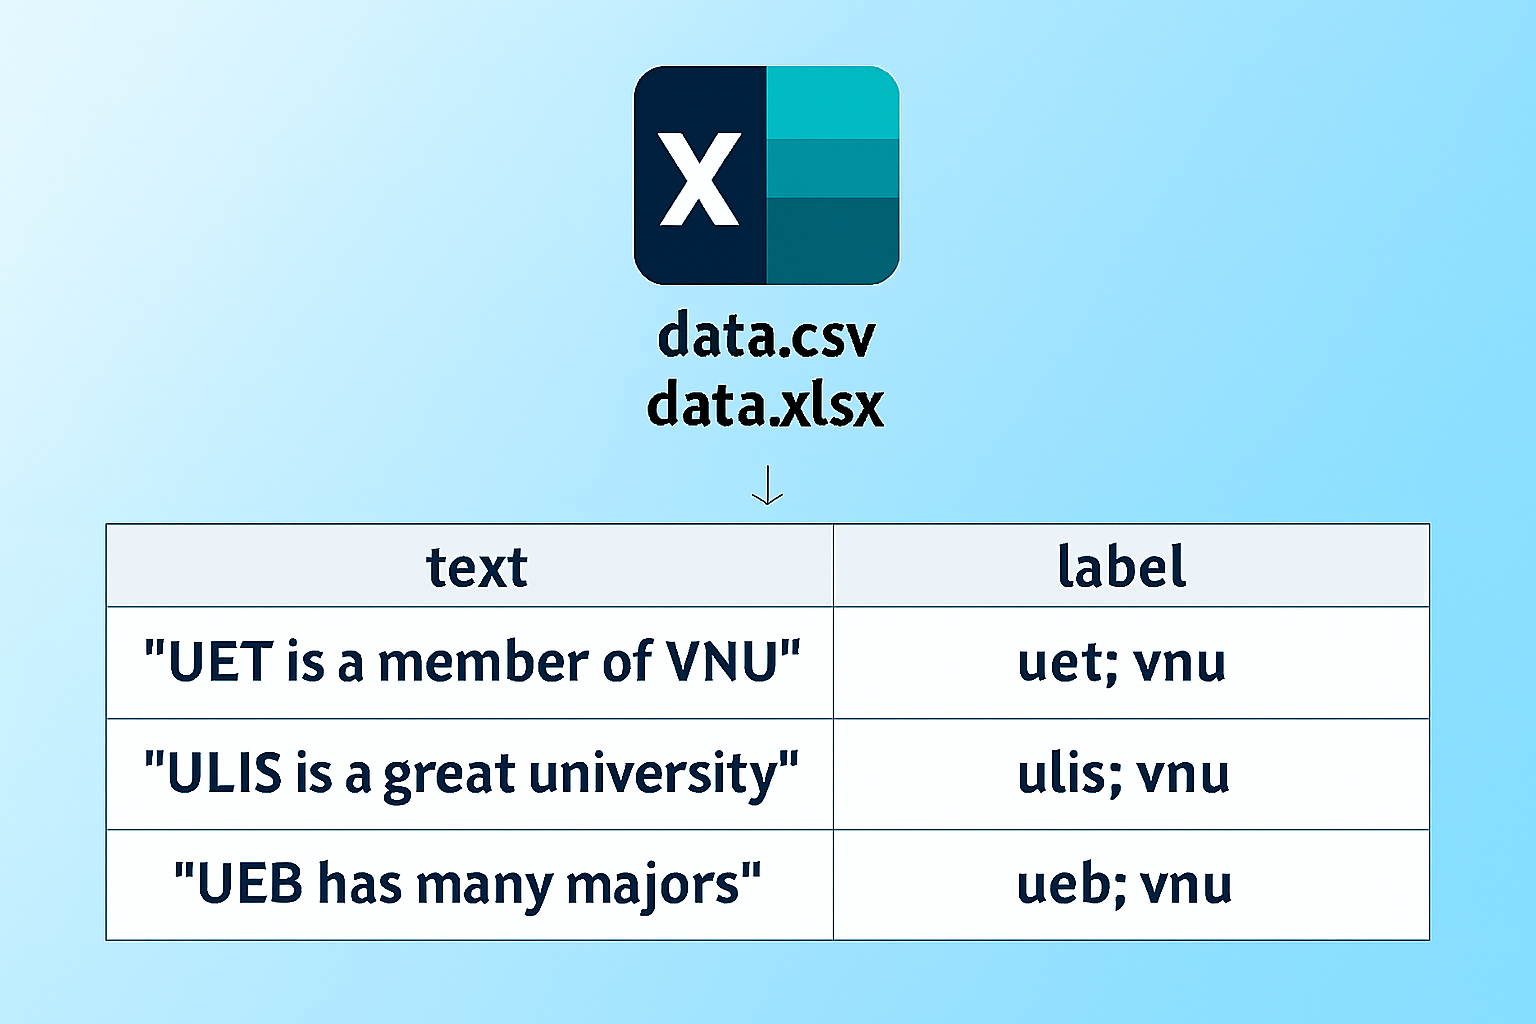
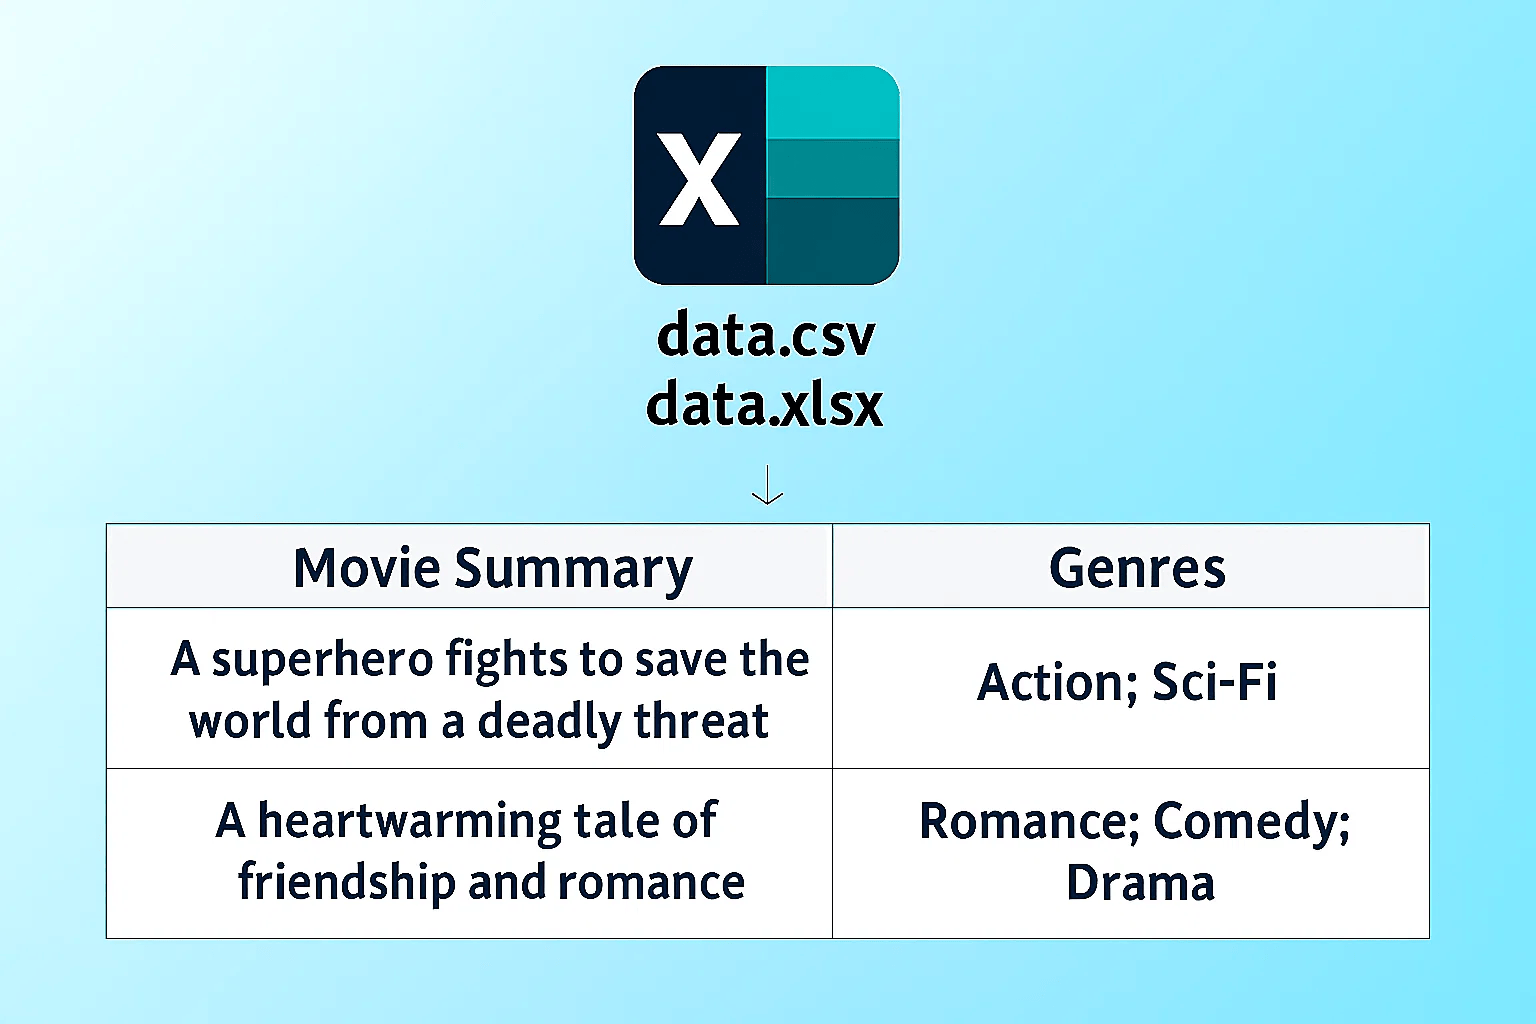
example data

diff --git a/src/constants/types.js b/src/constants/types.js
@@ -45,10 +45,10 @@ const TASK_TYPES = {
 📋 Requirements:
 • File must be in .csv and .xslx(excel) format.
 • Must have a header row (column names).
-• The label column must be the LAST COLUMN.
+• The category column must be the LAST COLUMN.
 
 💡 Example format:
-text,label
+text,category
 "This is a positive review","positive"
 "Great product, highly recommend","positive"
 "Poor quality, disappointed","negative"
@@ -70,14 +70,13 @@ text,label
 📋 Requirements:
 • File must be in .csv/.xslx format.
 • Must have a header row (column names).
-• The label column must be the LAST COLUMN.
-• Labels in the last column must be separated by "; " (a semicolon followed by a space).
+• The categories column must be the LAST COLUMN.
+• Categories in the last column must be separated by "; " (a semicolon followed by a space).
 
 💡 Example format:
-text,                              label
-"UET is a member of VNU",          "uet; vnu"
-"ULIS is a great university",      "ulis; vnu"
-"UEB has many majors",             "ueb; vnu"
+Movie Summary |                                                       Genres
+A superhero fights to save the world from a deadly threat |          Action; Sci-Fi
+A heartwarming tale of friendship and romance |                      Romance; Comedy; Drama
 
 ✅ Guidelines:
 • UTF-8 encoding.`,
@@ -99,13 +98,13 @@ text,                              label
 📋 Requirements:
 • File must be in .csv/.xslx(excel) format.
 • Must have a header row (column names).
-• The target/label column must be the LAST COLUMN.
+• The category column must be the LAST COLUMN.
 
 💡 Example format:
-age,income,education,approved
-25,50000,bachelor,1
-35,75000,master,1
-22,30000,high_school,0
+Age | Salary | Balance | Prediction
+35 | 50,000 | 75,000 | Churn
+42 | 62,000 | 12,000 | No Churn
+29 | 48,000 | 90,000 | No Churn
 
 ✅ Guidelines:
 • Handle missing values (use empty cells or 'NULL').
@@ -132,10 +131,11 @@ age,income,education,approved
 • ❗ Important: Values in the target column must be floating-point numbers (e.g., 1.5, 25.0, 105.7).
 
 💡 Example format:
-square_feet,num_bedrooms,age,price
-1500,3,10,300.5
-2200,4,5,450.0
-800,2,25,150.75`,
+Square Footage | Bedrooms | Location | Predicted Price ($ M)
+80 | 2 | Suburban | 1,2
+120 | 3 | Suburban | 1,8
+100 | 3 | Downtown | 3
+150 | 4 | Downtown | 4,5`,
 	exampleFile: '/data_example/tabular_regression.xlsx'
 	},
 	MULTILABEL_TABULAR_CLASSIFICATION: {
@@ -154,14 +154,14 @@ square_feet,num_bedrooms,age,price
 📋 Requirements:
 • File must be in .csv/.xslx format.
 • Must have a header row (column names).
-• The label column must be the LAST COLUMN.
-• Labels in the last column must be SEPARATED by "; " (a semicolon followed by a space).
+• The categories column must be the LAST COLUMN.
+• Categories in the last column must be SEPARATED by "; " (a semicolon followed by a space).
 
 💡 Example format:
-movie_summary,                                                   genres
-"A young wizard discovers his magical heritage...",              "adventure; fantasy"
-"A group of thieves attempts a final heist...",                  "crime; thriller; drama"
-"Two strangers meet on a train and talk all night...",           "romance; drama"`,
+Movie Title | Year | Genres
+Avengers: Endgame | 2019 | action; adventure
+Titanic | 1997 | romance; disaster; historical
+The Hangover | 2019 | thriller; comedy; drama; social commentary`,
 	exampleFile: '/data_example/multilabel_tabular_classification.xlsx',
 	},
 	MULTIMODAL_CLASSIFICATION: {
